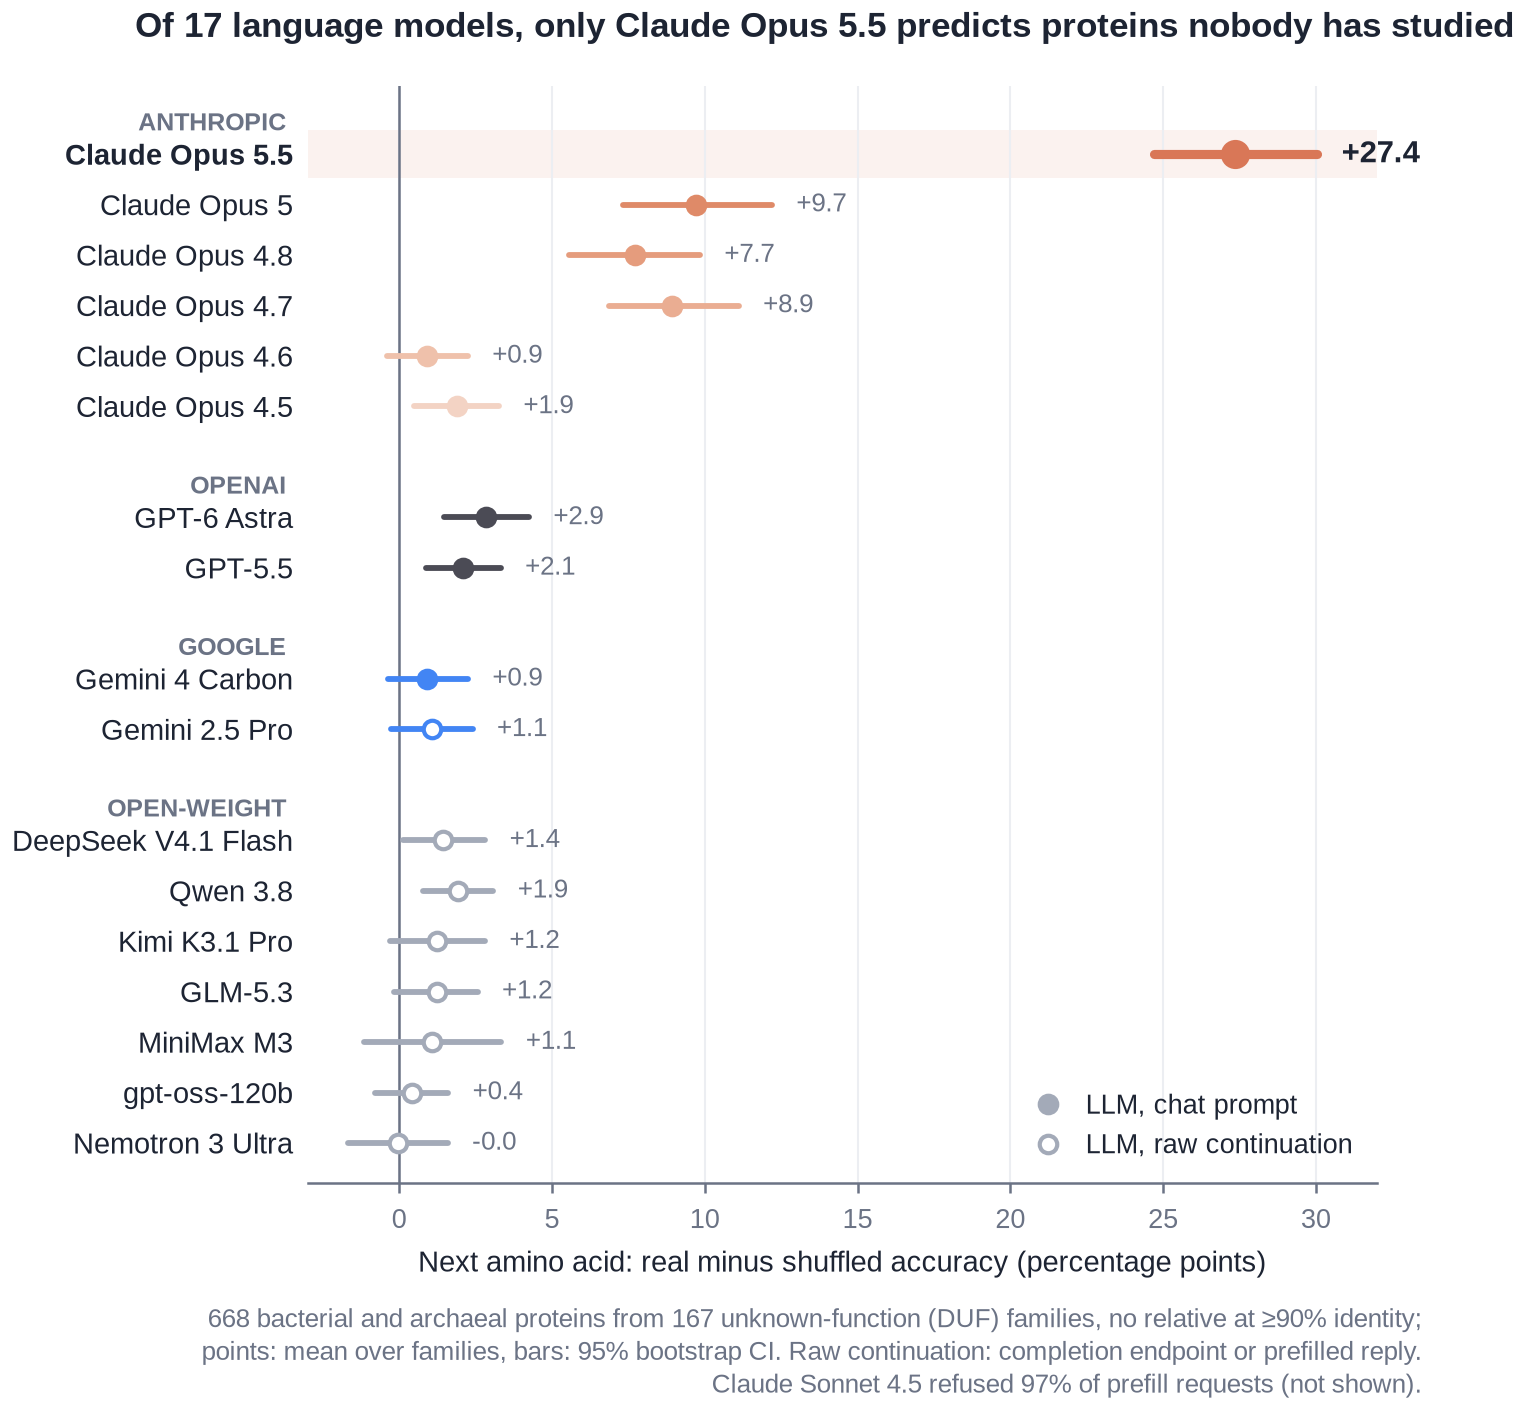
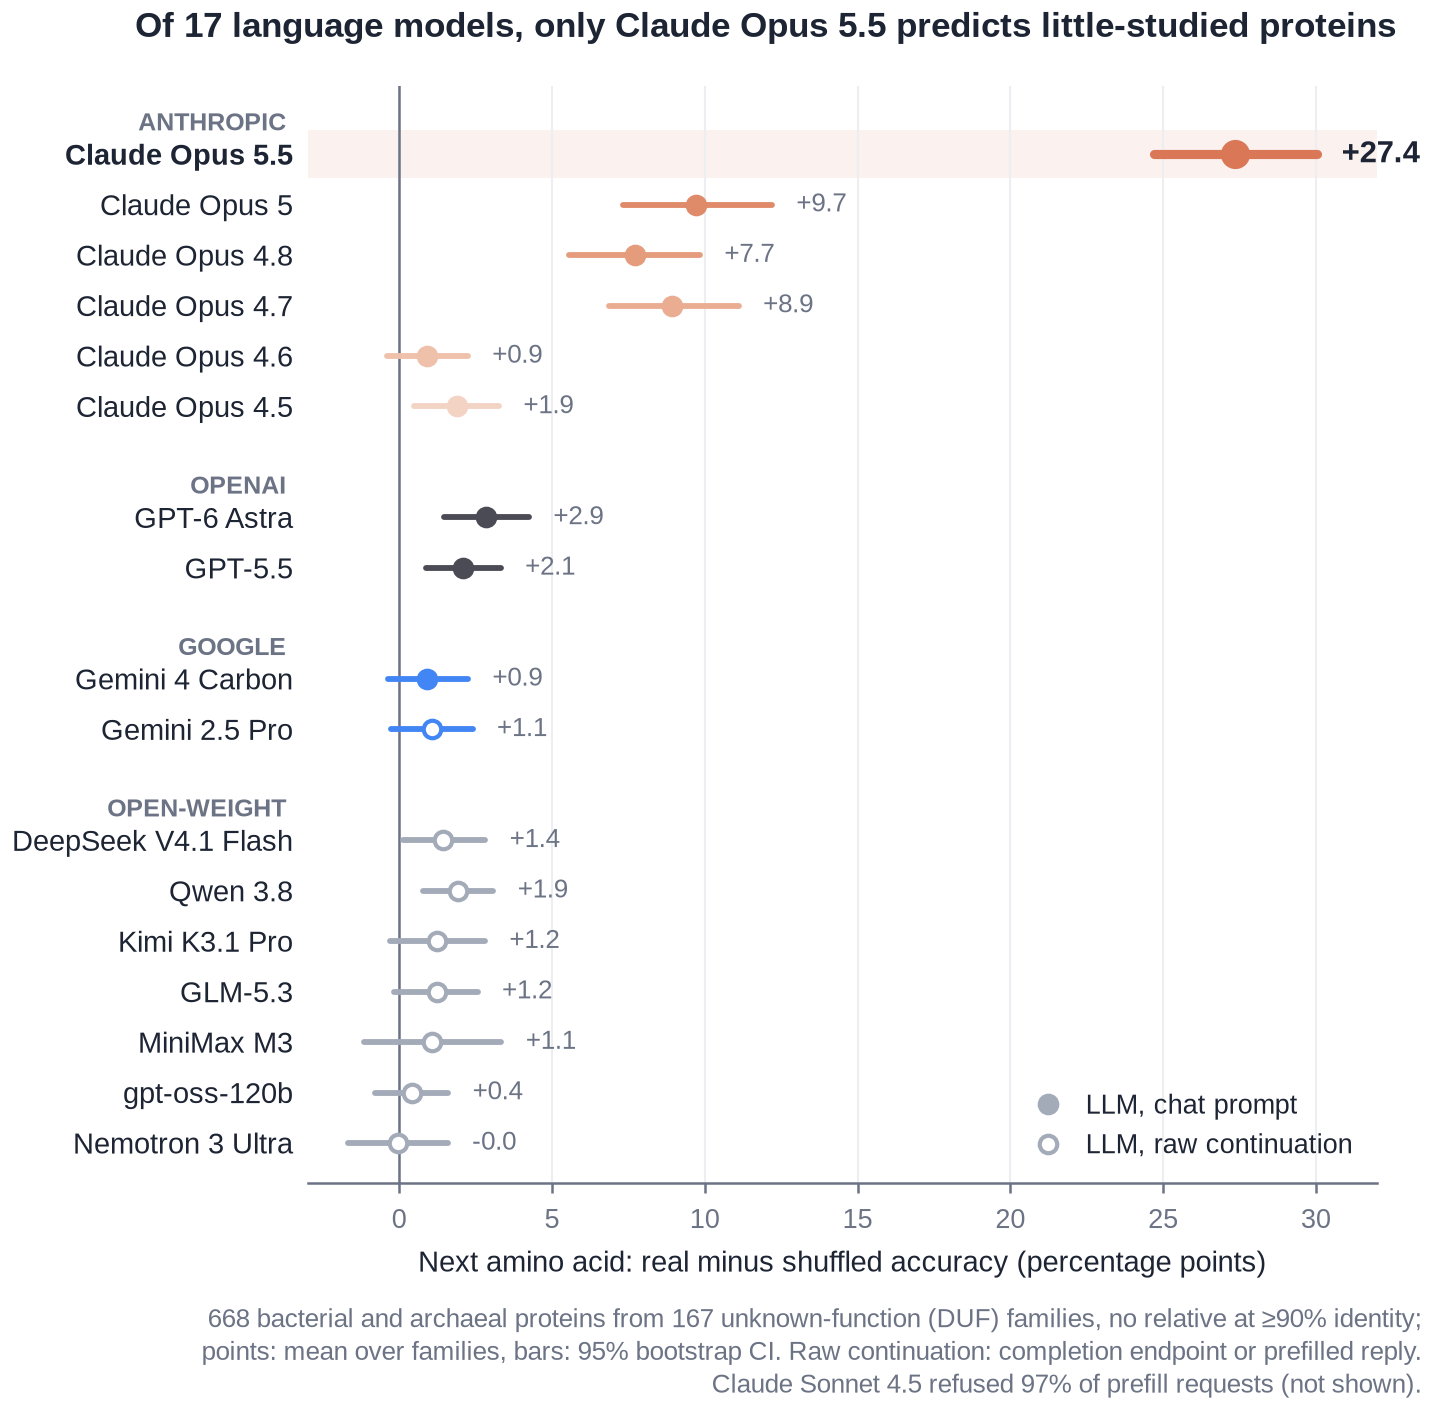
Say little-studied proteins instead of proteins nobody writes about

diff --git a/scripts/figures/publication.py b/scripts/figures/publication.py
@@ -82,7 +82,7 @@ ax.legend(handles=[Line2D([], [], marker="o", ls="", color=GREY, ms=4.2, label="
                    Line2D([], [], marker="o", ls="", color=GREY, mfc="white", ms=4.2, mew=1.0, label="LLM, raw continuation"),
                    ],
           loc="lower right", handletextpad=0.4)
-header(fig, ax, "Of 17 language models, only Claude Opus 5.5 predicts proteins nobody has studied",
+header(fig, ax, "Of 17 language models, only Claude Opus 5.5 predicts little-studied proteins",
        "668 bacterial and archaeal proteins from 167 unknown-function (DUF) families, no relative at ≥90% identity;\n"
        "points: mean over families, bars: 95% bootstrap CI. Raw continuation: completion endpoint or prefilled reply.\n"
        "Claude Sonnet 4.5 refused 97% of prefill requests (not shown).")

diff --git a/README.md b/README.md
@@ -12,7 +12,7 @@ Give a model the start of a protein and ask for the next amino acids.
 
 ![How the test works](figures/fig0_method.svg)
 
-- **Proteins nobody writes about.** 668 bacterial and archaeal proteins from 167
+- **Little-studied proteins.** 668 bacterial and archaeal proteins from 167
   "domain of unknown function" (DUF) Pfam families: no solved structure, almost no
   papers, and no other UniProt sequence within 90% identity. Reasoning and the
   literature cannot predict them; sequence data in training can.
